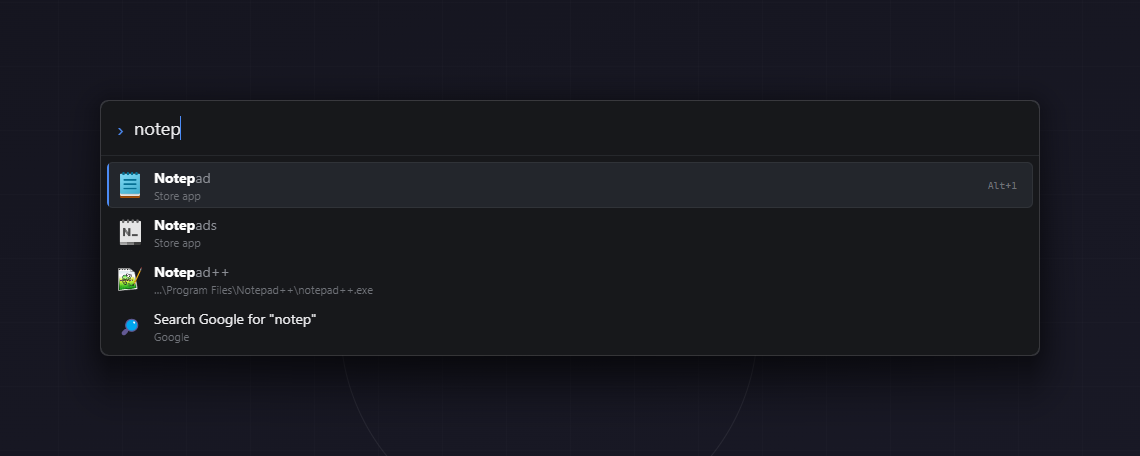
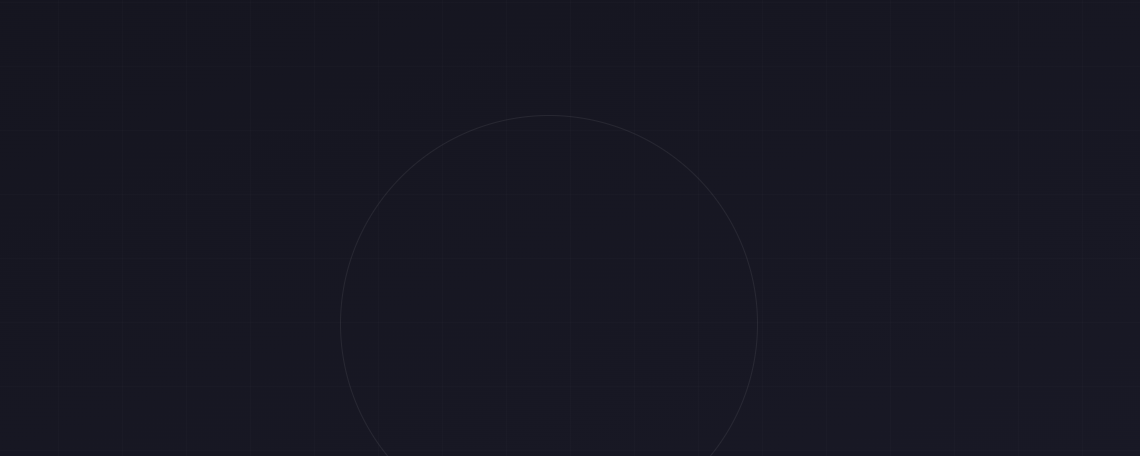
Say where the cursor lands, and stop the shot script leaking the desktop
Three things, all found by pulling one thread.

"Keep the last query" and "Keep it, selected for overtyping" describe the
same thing unless you already know the difference is cursor placement,
and this was the one field in the settings panel with no help text at
all. Predictably the option people actually want went unnoticed. The
labels now name the behaviour and the help says why selected is usually
the right one.

`npm run shot` pointed at scripts/screenshot.mjs while the README images
are produced by scripts/shots.mjs — two scripts, one of them a trap for
anyone following CLAUDE.md. The superseded one is gone, along with the
LUME_SCREENSHOT hook in index.ts that existed only to serve it; that was
dead code shipping in the packaged app.

Worse, shots.mjs could fail silently. Its whole purpose is keeping the
author's desktop out of a public README, and when the backdrop window
died or lost topmost it cheerfully photographed the real desktop anyway.
Three fixes: exited PIDs are dropped before taskkill /T can hit a
recycled one (which is what killed the backdrop mid-run), the desktop is
minimised so nothing else can wedge itself above the backdrop, and every
finished image is checked — a bright pixel anywhere in the padding ring
now aborts the run instead of writing the file.

Verified: nothing leaked ever reached a commit. Only the original
screenshot commit ever touched docs/images.

diff --git a/src/main/index.ts b/src/main/index.ts
@@ -261,31 +261,6 @@ function wireEvents() {
 
 /* ------------------------------------------------------------- lifecycle */
 
-/** Feeds a query into the renderer, snapshots the window, then quits. */
-async function captureAndExit(target: string) {
-  launcherWindow.show()
-  const win = launcherWindow.win
-  if (!win) return app.exit(1)
-  const query = process.env.LUME_SCREENSHOT_QUERY ?? ''
-  // Let the background index finish before querying, or the shot is empty.
-  await new Promise((r) => setTimeout(r, Number(process.env.LUME_SCREENSHOT_DELAY ?? 4000)))
-  await win.webContents.executeJavaScript(
-    'const i=document.getElementById("input");i.value=' +
-      JSON.stringify(query) +
-      ';i.dispatchEvent(new Event("input"));',
-  )
-  // Optional extra step, e.g. opening the actions menu before the shot.
-  if (process.env.LUME_SCREENSHOT_JS) {
-    await new Promise((r) => setTimeout(r, 400))
-    await win.webContents.executeJavaScript(process.env.LUME_SCREENSHOT_JS)
-  }
-  await new Promise((r) => setTimeout(r, 900))
-  const image = await win.webContents.capturePage()
-  await (await import('node:fs/promises')).writeFile(target, image.toPNG())
-  console.log('[screenshot] wrote ' + target)
-  app.exit(0)
-}
-
 if (!app.requestSingleInstanceLock()) {
   app.exit(0)
 } else {
@@ -318,11 +293,6 @@ if (!app.requestSingleInstanceLock()) {
     await appIndex.init()
     applyStartupSetting()
     updater.init()
-
-    if (process.env.LUME_SCREENSHOT) {
-      await captureAndExit(process.env.LUME_SCREENSHOT)
-      return
-    }
 
     if (process.argv.includes('--settings')) {
       openSettings()

diff --git a/src/settings/settings.ts b/src/settings/settings.ts
@@ -334,10 +334,12 @@ const SECTIONS: Section[] = [
             kind: 'select',
             path: 'lastQueryMode',
             label: 'When reopening',
+            help:
+              'The two “keep” options differ only in where the cursor lands. Selected is usually what you want: the old query is still there to refine, but typing anything replaces it outright, so you never delete it by hand.',
             options: () => [
-              { value: 'empty', label: 'Start with an empty box' },
-              { value: 'preserve', label: 'Keep the last query' },
-              { value: 'select', label: 'Keep it, selected for overtyping' },
+              { value: 'empty', label: 'Start empty' },
+              { value: 'preserve', label: 'Keep the last query, cursor at the end' },
+              { value: 'select', label: 'Keep the last query, selected' },
             ],
           },
           {

diff --git a/CLAUDE.md b/CLAUDE.md
@@ -1,0 +1,91 @@
+# Lume
+
+A fast, CSS-themeable keyboard launcher for Windows. Electron + TypeScript, bundled
+with esbuild, packaged with electron-builder. Published as `limburatorul/lume`.
+
+The npm package is named `lume-launcher`; the product, the binary and the appId
+(`dev.tucu.lume`) all say **Lume**. The repository directory is still called
+`FlowLauncher` for historical reasons — that name should not appear in code or docs.
+
+## Commands
+
+```
+npm run dev         # esbuild watch + static asset copy
+npm start           # build, then launch Electron
+npm run typecheck   # tsc --noEmit — the only type gate, run it before committing
+npm test            # scripts/smoke.mjs — bundles smoke-entry.ts and runs it
+npm run package     # electron-builder --win → release/ (nsis + portable)
+npm run shot        # regenerate README screenshots
+```
+
+There is no linter and no formatter config. Match the surrounding style by hand.
+
+## Architecture
+
+Three Electron contexts, and everything crossing between them is typed in
+`src/shared/types.ts`. Add to that file first when introducing a new IPC payload.
+
+- **main** (`src/main/`) — window, tray, hotkey, indexing, search, execution.
+- **preload** (`src/preload/`) — two separate bridges, one per window, built to CJS.
+- **renderer** (`src/renderer/` launcher, `src/settings/` settings window).
+
+`src/main/index.ts` is the composition root: it owns the tray, the global hotkey,
+every `ipcMain` handler, and the `wireEvents()` block that connects module events
+to window updates. New IPC channels and cross-module wiring belong there, not
+scattered into the modules themselves.
+
+### Search pipeline
+
+`search/engine.ts` runs every provider synchronously on each keystroke, merges,
+sorts and de-duplicates. Providers live in `src/main/providers/` and are plain
+functions `(query: string) => ResultItem[]`. To add one, write the function and
+add it to the array in `engine.ts` — there is no registry.
+
+Two queries bypass the merge entirely: an empty query returns `frequentApps()`,
+and a query starting with `config.shellPrefix` goes only to the shell provider.
+
+Ranking combines a fuzzy match score (`search/fuzzy.ts`) with a learned signal
+from `store.ts`, blended by `config.frecencyWeight`. `store.ts` keeps two things:
+per-item frecency with a 30-day half-life, and query→item affinity, which is what
+makes a typed prefix land on the app you picked last time. Only the *primary*
+action of an `apps` result is recorded; alternates are treated as deliberate one-offs.
+
+### Module shape
+
+Stateful modules export a singleton instance of a class, not a bag of functions:
+`export const usage = new UsageStore()`. Those with lifecycles expose `init()` and
+are started in order inside `app.whenReady()`. Ones that others react to extend
+`EventEmitter` (`themes`, `settings`, `appIndex`, `updater`) and are subscribed to
+in `wireEvents()`.
+
+## Conventions
+
+- No semicolons, single quotes, 2-space indent.
+- ESM everywhere in `src/main`, with **`.js` extensions on relative imports**.
+  `moduleResolution` is `bundler`, so tsc would accept extensionless too — but every
+  existing import carries the extension, so keep writing it that way.
+- Comments explain *why*, in full sentences, and are rare. Do not add comments
+  that restate the code; the existing ones all carry information the code cannot.
+- Errors from Windows APIs and the filesystem are caught, logged with a
+  `[module]` prefix, and degraded gracefully. The launcher never crashes on a
+  bad theme file, an unreadable shortcut or a taken hotkey.
+- User-visible failures that the user can act on get a `Notification`, not a
+  silent fallback — see `registerHotkey()`.
+
+## Things that will bite
+
+- `scripts/build.mjs` injects a banner recreating `__dirname` and `require` for
+  the main bundle, because esbuild's ESM output drops them. Anything resolving
+  paths at runtime in main depends on it.
+- Static assets (`*.html`, `*.css`, `themes/`, `assets/`, `uwp.ps1`) are copied by
+  `copyStatic()` in the build script, not bundled. A new static file must be added
+  there or it will be missing from `dist/` and from the package.
+- `uwp.ps1` is listed under `asarUnpack` — it is spawned as a real file, so it
+  cannot live inside the asar archive.
+- README screenshots are real screen grabs, because the acrylic backdrop only
+  exists in the composited desktop and `capturePage()` cannot see it.
+  `scripts/shots.mjs` paints a full-screen backdrop, reads window bounds back over
+  the debugging protocol and crops to them, which keeps the author's own desktop
+  out of the images. It rewrites `config.json` while running and restores it after.
+- Only one instance runs. `--settings` and `--hidden` are forwarded to the live
+  instance through the `second-instance` handler.

diff --git a/README.md b/README.md
@@ -218,7 +218,7 @@ which is watched — edit it by hand and the running app picks the change up.
 | `hotkey` | Electron accelerator, e.g. `Alt+Space`, `Ctrl+Shift+Space` |
 | `hideOnBlur` | Hide when focus is lost |
 | `showAtTopmost` | Stay above other windows, including full-screen apps |
-| `lastQueryMode` | `empty` \| `preserve` \| `select` |
+| `lastQueryMode` | `empty` clears the box; `preserve` keeps the query with the cursor at the end; `select` keeps it selected, so typing replaces it |
 | `searchDelay` | Milliseconds to wait after a keystroke; 0 searches on every key |
 | `colorScheme` | `fixed` uses `theme` always; `system` swaps with Windows |
 | `theme` / `themeLight` | Theme file names without `.css`; `themeLight` only matters under `system` |
